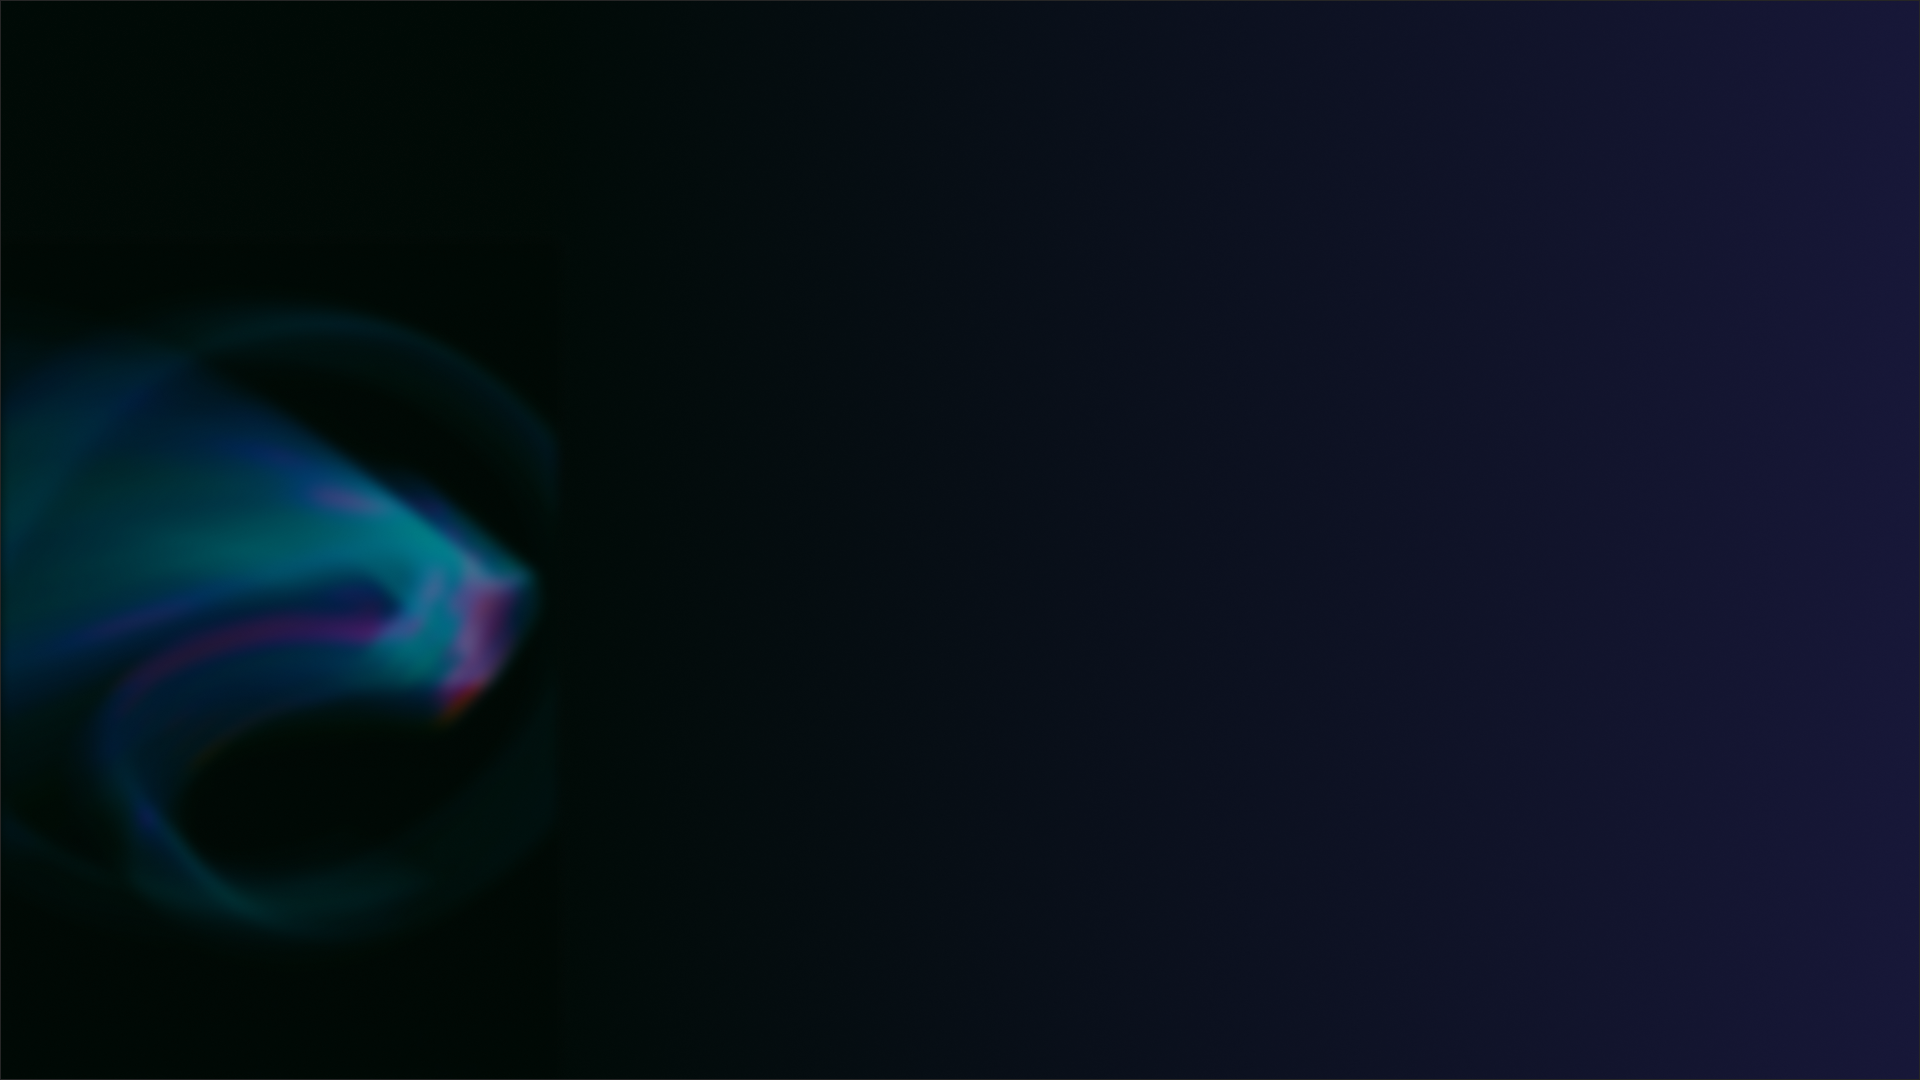
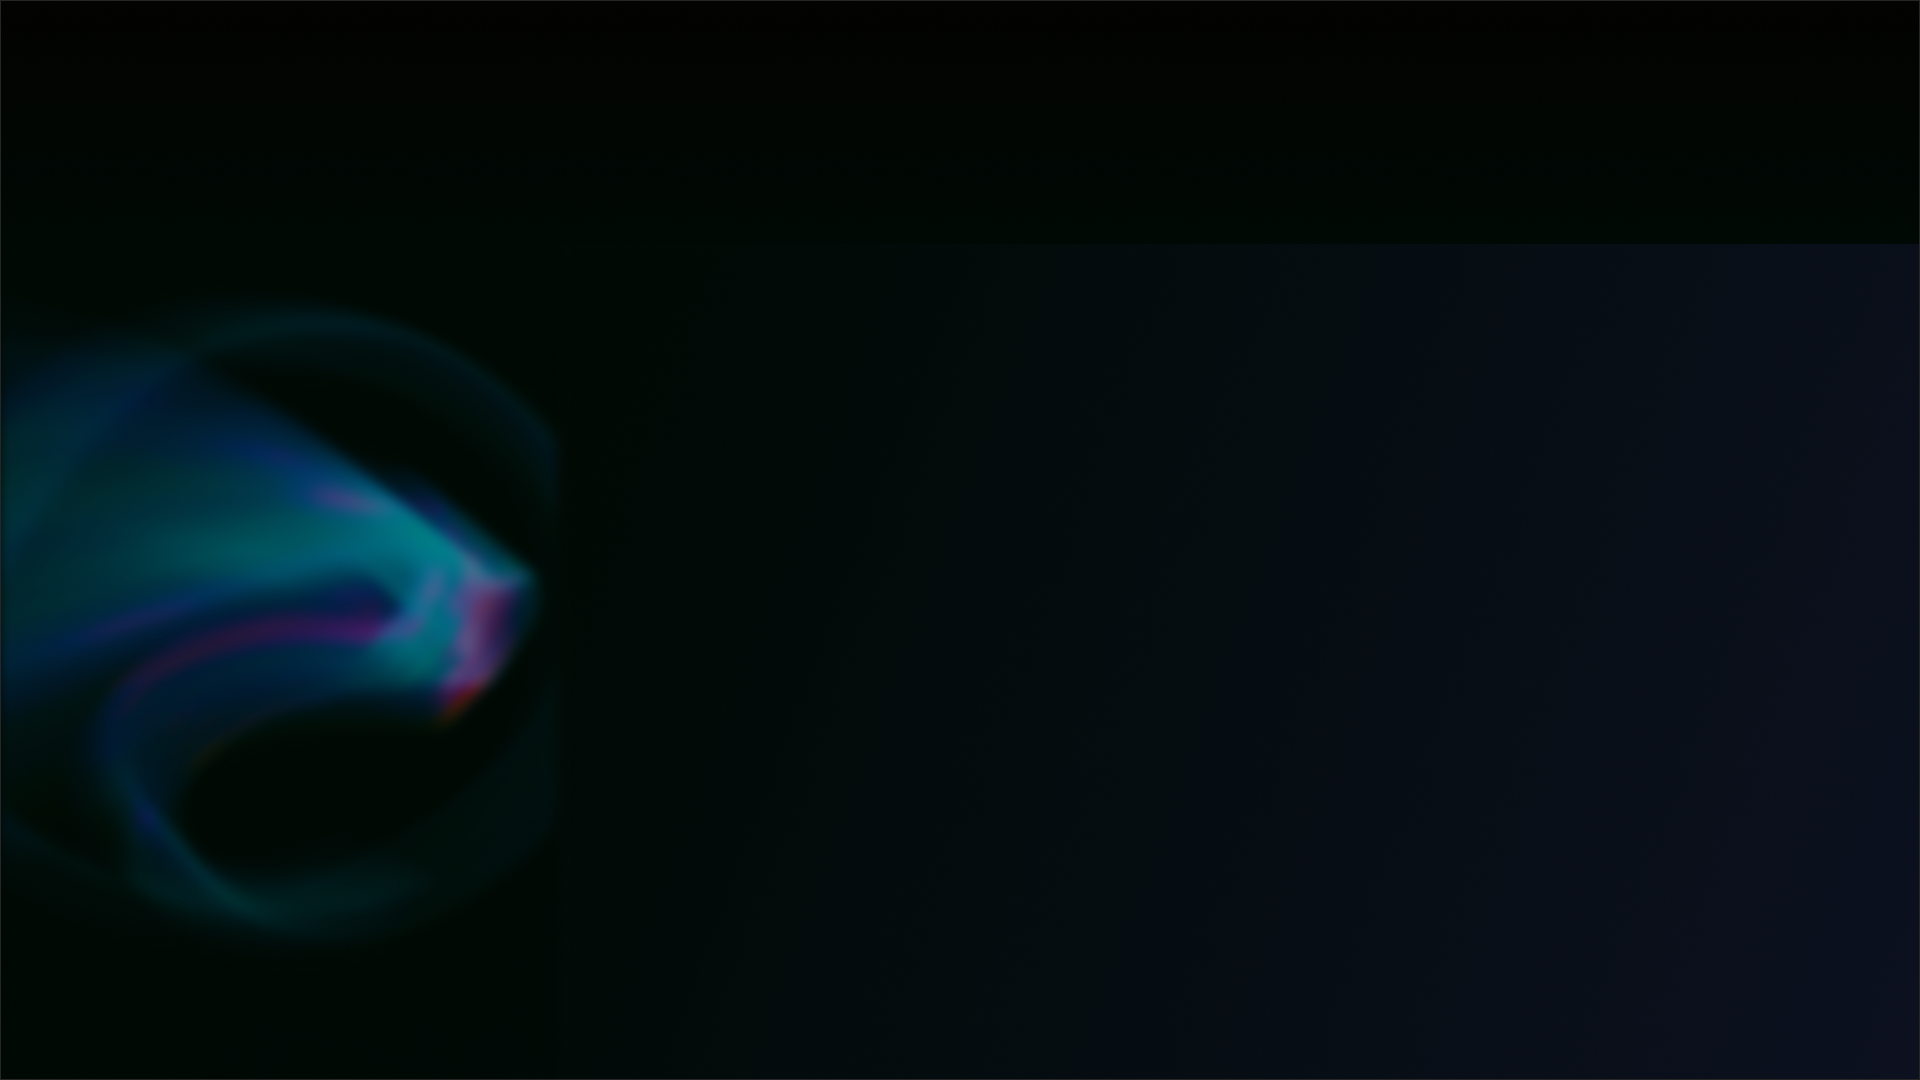
Cria estilo

Changed region(s): [[0.5312, 0.0, 1.0, 1.0]]

diff --git a/index.html b/index.html
@@ -4,18 +4,23 @@
     <meta charset="UTF-8">
     <meta name="viewport" content="width=device-width, initial-scale=1.0">
     <title>Portifólio Vinicius Domingues</title>
+    <link rel="stylesheet" href="./assets/css/style.css">
 </head>
 <body>
-    <h1>vinicius domingues</h1>
-    <h2>backend dev.</h2>
-    <p>Lorem ipsum dolor sit amet consectetur, adipisicing elit. Obcaecati quae perspiciatis id provident sapiente? Quisquam harum saepe officia ratione inventore porro rem natus! Quod animi explicabo veritatis, inventore aut voluptas.</p>
+    <header>
+        <h1>vinicius domingues</h1>
+        <h2>backend dev.</h2>
+    </header>
 
+    <p>Lorem ipsum dolor sit amet consectetur, adipisicing elit. Obcaecati quae perspiciatis id provident sapiente? Quisquam harum saepe officia ratione inventore porro rem natus! Quod animi explicabo veritatis, inventore aut voluptas.</p>
+<!--
     <ul>
         <li>AdvPL</li>
         <li>MSSQL</li>
     </ul>
 
     <a href="https://www2.fiap.com.br">FIAP</a>
+-->
 
 </body>
 </html>

diff --git a/assets/css/style.css b/assets/css/style.css
@@ -1,0 +1,36 @@
+@import url('https://fonts.googleapis.com/css2?family=Miriam+Libre:wght@400;700&display=swap');
+
+@font-face {
+    font-family: Trebuchet;
+    src: url(C:/Windows/Fonts/trebucbd.ttf);
+}
+
+header::before{
+    content:"";
+    position: absolute;
+    background-image: url(../images/background.png);
+    background-size: cover;
+    height: 100vh;
+    width: 100vw;
+    display: block;
+    margin: 0px;
+    z-index: -1;
+    top: 0px;
+    left: 0px;
+}
+
+h1 {
+    font-family: Trebuchet, sans-serif;
+    color: #DDDDDD;
+    font-size: 62px;
+}
+
+h2 {
+    font-family: 'Miriam Libre', serif;
+    color: #326898;
+    font-size: 30px;
+}
+
+p {
+    color: white;
+}
